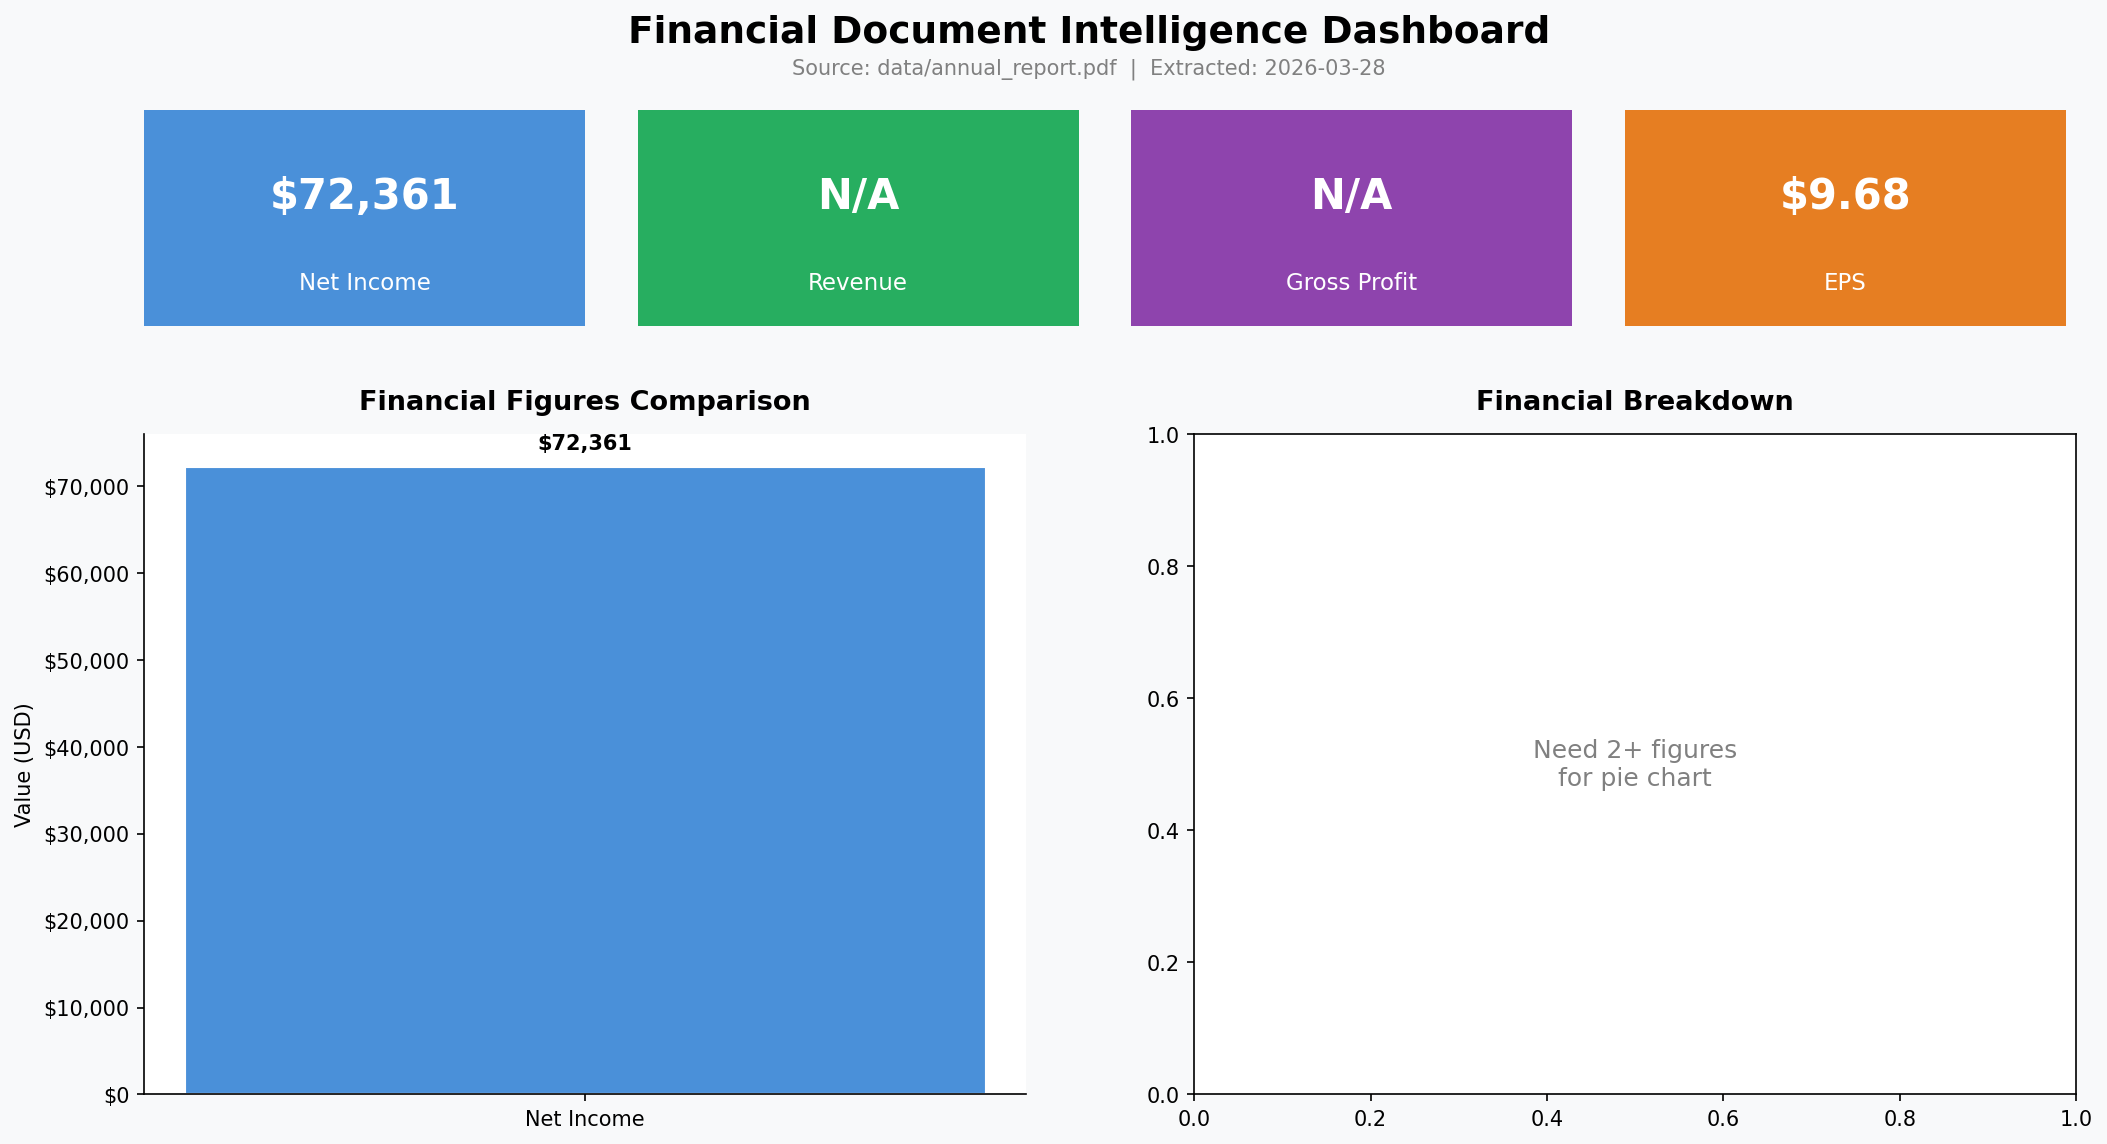
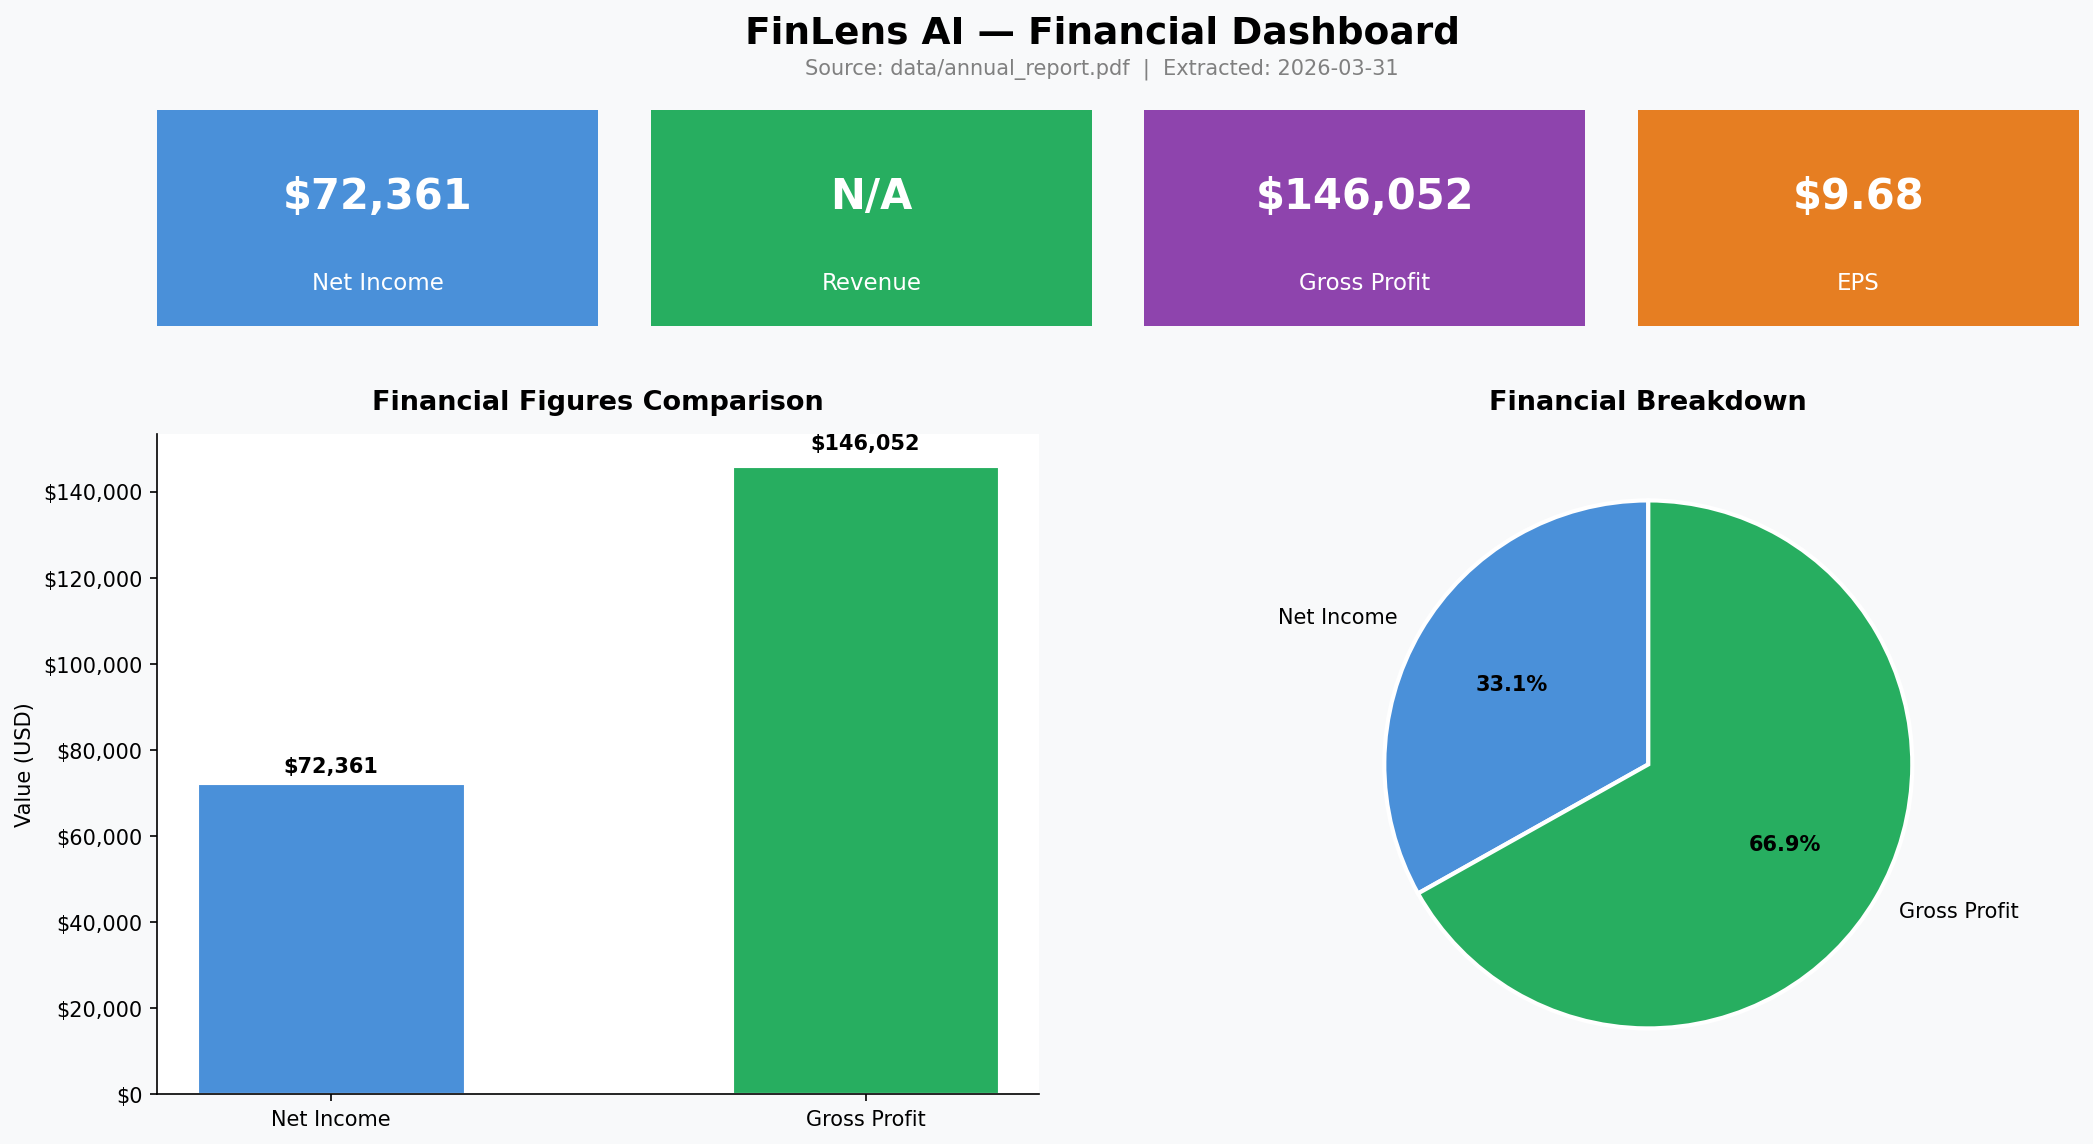
Initial commit

diff --git a/dashboard.py b/dashboard.py
@@ -1,92 +1,77 @@
 import json
 import matplotlib.pyplot as plt
-import matplotlib.patches as mpatches
 import os
 
+
 def load_data(json_path):
-    """Load the extracted financial data from JSON file"""
     with open(json_path, "r") as f:
-        data = json.load(f)
-    return data
+        return json.load(f)
+
+
+def format_value(label, value):
+    if value == 0:
+        return "N/A"
+    if label == "EPS":
+        return f"${value:.2f}"
+    if value >= 1_000_000_000:
+        return f"${value/1e9:.2f}B"
+    if value >= 1_000_000:
+        return f"${value/1e6:.1f}M"
+    return f"${value:,.0f}"
+
 
 def create_dashboard(data):
-    """Create a visual dashboard from the financial data"""
-    
     financials = data["financial_figures"]
     source = data["source_file"]
-    extracted_at = data["extracted_at"][:10]  # just the date part
-    
-    # --- Setup the figure (4 panels) ---
+    extracted_at = data["extracted_at"][:10]
+
     fig = plt.figure(figsize=(14, 8))
-    fig.suptitle("Financial Document Intelligence Dashboard", 
-                 fontsize=18, fontweight='bold', y=0.98)
+    fig.suptitle("FinLens AI — Financial Dashboard", fontsize=18, fontweight='bold', y=0.98)
     fig.patch.set_facecolor('#f8f9fa')
-    
-    # Subtitle
+
     plt.figtext(0.5, 0.93, f"Source: {source}  |  Extracted: {extracted_at}",
                 ha='center', fontsize=10, color='gray')
 
-    # ---- PANEL 1: Metric Cards (top row) ----
     metrics = [
-        ("Net Income",    financials.get("net_income",    0), "#4A90D9", "$"),
-        ("Revenue",       financials.get("revenue",       0), "#27AE60", "$"),
-        ("Gross Profit",  financials.get("gross_profit",  0), "#8E44AD", "$"),
-        ("EPS",           financials.get("eps",           0), "#E67E22", "$"),
+        ("Net Income",   financials.get("net_income",   0), "#4A90D9"),
+        ("Revenue",      financials.get("revenue",      0), "#27AE60"),
+        ("Gross Profit", financials.get("gross_profit", 0), "#8E44AD"),
+        ("EPS",          financials.get("eps",          0), "#E67E22"),
     ]
-    
-    for i, (label, value, color, prefix) in enumerate(metrics):
+
+    for i, (label, value, color) in enumerate(metrics):
         ax = fig.add_axes([0.05 + i * 0.235, 0.72, 0.21, 0.18])
         ax.set_facecolor(color)
         ax.set_xticks([])
         ax.set_yticks([])
         for spine in ax.spines.values():
             spine.set_visible(False)
-        
-        # Format value nicely
-        if value == 0:
-            display = "N/A"
-        elif label == "EPS":
-            display = f"${value:.2f}"
-        elif value >= 1_000_000_000:
-            display = f"${value/1e9:.2f}B"
-        elif value >= 1_000_000:
-            display = f"${value/1e6:.1f}M"
-        else:
-            display = f"${value:,.0f}"
-        
-        ax.text(0.5, 0.6, display, transform=ax.transAxes,
-                ha='center', va='center', fontsize=20,
-                fontweight='bold', color='white')
-        ax.text(0.5, 0.2, label, transform=ax.transAxes,
-                ha='center', va='center', fontsize=11, color='white')
+        ax.text(0.5, 0.6, format_value(label, value),
+                transform=ax.transAxes, ha='center', va='center',
+                fontsize=20, fontweight='bold', color='white')
+        ax.text(0.5, 0.2, label,
+                transform=ax.transAxes, ha='center', va='center',
+                fontsize=11, color='white')
 
-    # ---- PANEL 2: Bar Chart of all figures ----
+    bar_data = {k: v for k, v in financials.items() if v > 0 and k != "eps"}
+    colors = ['#4A90D9', '#27AE60', '#8E44AD', '#E67E22']
+
     ax2 = fig.add_axes([0.05, 0.08, 0.42, 0.55])
     ax2.set_facecolor('#ffffff')
-    
-    bar_data = {k: v for k, v in financials.items() if v > 0 and k != "eps"}
-    
+
     if bar_data:
-        labels = [k.replace("_", " ").title() for k in bar_data.keys()]
+        labels = [k.replace("_", " ").title() for k in bar_data]
         values = list(bar_data.values())
-        colors = ['#4A90D9', '#27AE60', '#8E44AD', '#E67E22'][:len(labels)]
-        
-        bars = ax2.bar(labels, values, color=colors, width=0.5, 
+
+        bars = ax2.bar(labels, values, color=colors[:len(labels)], width=0.5,
                        edgecolor='white', linewidth=1.5)
-        
-        # Add value labels on top of bars
+
         for bar, val in zip(bars, values):
-            if val >= 1e9:
-                label = f"${val/1e9:.2f}B"
-            elif val >= 1e6:
-                label = f"${val/1e6:.1f}M"
-            else:
-                label = f"${val:,.0f}"
-            ax2.text(bar.get_x() + bar.get_width()/2, bar.get_height() * 1.02,
-                    label, ha='center', va='bottom', fontsize=10, fontweight='bold')
-        
-        ax2.set_title("Financial Figures Comparison", fontsize=13, 
-                      fontweight='bold', pad=12)
+            lbl = f"${val/1e9:.2f}B" if val >= 1e9 else f"${val/1e6:.1f}M" if val >= 1e6 else f"${val:,.0f}"
+            ax2.text(bar.get_x() + bar.get_width() / 2, bar.get_height() * 1.02,
+                     lbl, ha='center', va='bottom', fontsize=10, fontweight='bold')
+
+        ax2.set_title("Financial Figures Comparison", fontsize=13, fontweight='bold', pad=12)
         ax2.set_ylabel("Value (USD)", fontsize=10)
         ax2.spines['top'].set_visible(False)
         ax2.spines['right'].set_visible(False)
@@ -94,44 +79,40 @@ def create_dashboard(data):
             plt.FuncFormatter(lambda x, _: f"${x/1e6:.0f}M" if x >= 1e6 else f"${x:,.0f}")
         )
     else:
-        ax2.text(0.5, 0.5, "No bar data available", transform=ax2.transAxes,
-                ha='center', va='center', fontsize=12, color='gray')
+        ax2.text(0.5, 0.5, "No data available", transform=ax2.transAxes,
+                 ha='center', va='center', fontsize=12, color='gray')
         ax2.set_title("Financial Figures Comparison", fontsize=13, fontweight='bold')
 
-    # ---- PANEL 3: Pie Chart ----
     ax3 = fig.add_axes([0.55, 0.08, 0.42, 0.55])
     ax3.set_facecolor('#ffffff')
-    
+
     pie_data = {k: v for k, v in financials.items() if v > 0 and k != "eps"}
-    
+
     if len(pie_data) >= 2:
-        pie_labels = [k.replace("_", " ").title() for k in pie_data.keys()]
+        pie_labels = [k.replace("_", " ").title() for k in pie_data]
         pie_values = list(pie_data.values())
-        pie_colors = ['#4A90D9', '#27AE60', '#8E44AD', '#E67E22'][:len(pie_labels)]
-        
-        wedges, texts, autotexts = ax3.pie(
-            pie_values, labels=pie_labels, colors=pie_colors,
+
+        _, _, autotexts = ax3.pie(
+            pie_values, labels=pie_labels, colors=colors[:len(pie_labels)],
             autopct='%1.1f%%', startangle=90,
             wedgeprops=dict(edgecolor='white', linewidth=2)
         )
-        for text in autotexts:
-            text.set_fontsize(10)
-            text.set_fontweight('bold')
+        for t in autotexts:
+            t.set_fontsize(10)
+            t.set_fontweight('bold')
     else:
-        ax3.text(0.5, 0.5, "Need 2+ figures\nfor pie chart", 
-                transform=ax3.transAxes, ha='center', va='center',
-                fontsize=12, color='gray')
-    
+        ax3.text(0.5, 0.5, "Need 2+ figures\nfor pie chart",
+                 transform=ax3.transAxes, ha='center', va='center',
+                 fontsize=12, color='gray')
+
     ax3.set_title("Financial Breakdown", fontsize=13, fontweight='bold', pad=12)
 
-    # ---- Save and show ----
     os.makedirs("output", exist_ok=True)
-    plt.savefig("output/dashboard.png", dpi=150, bbox_inches='tight',
-                facecolor='#f8f9fa')
+    plt.savefig("output/dashboard.png", dpi=150, bbox_inches='tight', facecolor='#f8f9fa')
     print("Dashboard saved to output/dashboard.png")
     plt.show()
 
-# ---- Run it ----
+
 if __name__ == "__main__":
     data = load_data("output/financial_data.json")
     create_dashboard(data)

diff --git a/main.py b/main.py
@@ -1,7 +1,6 @@
 import fitz
 import pdfplumber
 import camelot
-import pandas as pd
 import re
 import json
 import os
@@ -9,18 +8,18 @@ from datetime import datetime
 
 PDF_PATH = "data/annual_report.pdf"
 
-# ---- STEP 1: Load PDF ----
+
 def load_pdf(pdf_path):
     doc = fitz.open(pdf_path)
     os.makedirs("output/images", exist_ok=True)
-    total_pages = len(doc)          # save page count BEFORE closing
+    total_pages = len(doc)
     for i in range(total_pages):
-        page = doc[i]
-        pix = page.get_pixmap(matrix=fitz.Matrix(2, 2))
+        pix = doc[i].get_pixmap(matrix=fitz.Matrix(2, 2))
         pix.save(f"output/images/page_{i+1}.png")
-    doc.close()                     # close AFTER the loop
+    doc.close()
     print(f"[1] PDF loaded: {total_pages} pages")
-# ---- STEP 2: Extract text ----
+
+
 def extract_text(pdf_path):
     text_by_page = {}
     with pdfplumber.open(pdf_path) as pdf:
@@ -31,7 +30,7 @@ def extract_text(pdf_path):
     print(f"[2] Text extracted from {len(text_by_page)} pages")
     return text_by_page
 
-# ---- STEP 3: Extract tables ----
+
 def extract_tables(pdf_path):
     os.makedirs("output/tables", exist_ok=True)
     try:
@@ -45,48 +44,44 @@ def extract_tables(pdf_path):
     print(f"[3] {len(result)} tables extracted")
     return result
 
-# ---- STEP 4: Extract financials ----
+
 def extract_financial_figures(text_by_page):
     full_text = " ".join(text_by_page.values())
     financials = {}
     patterns = {
-    "revenue": r"(?:revenue[s]?|total\s+sales|net\s+sales|turnover)\s*[:\-]?\s*\$?([\d,\.]+)\s*(million|billion|M|B)?",
-    "net_income": r"(?:net\s+income|net\s+profit|profit\s+after\s+tax)\s*[:\-]?\s*\$?([\d,\.]+)\s*(million|billion|M|B)?",
-    "gross_profit": r"(?:gross\s+profit|gross\s+margin)\s*[:\-]?\s*\$?([\d,\.]+)\s*(million|billion|M|B)?",
-    "eps": r"(?:earnings\s+per\s+share|EPS|diluted\s+EPS)\s*[:\-]?\s*\$?([\d,\.]+)",
-}
+        "revenue":      r"(?:revenue[s]?|total\s+sales|net\s+sales|turnover)\s*[:\-]?\s*\$?([\d,\.]+)\s*(million|billion|M|B)?",
+        "net_income":   r"(?:net\s+income|net\s+profit|profit\s+after\s+tax)\s*[:\-]?\s*\$?([\d,\.]+)\s*(million|billion|M|B)?",
+        "gross_profit": r"(?:gross\s+profit|gross\s+margin)\s*[:\-]?\s*\$?([\d,\.]+)\s*(million|billion|M|B)?",
+        "eps":          r"(?:earnings\s+per\s+share|EPS|diluted\s+EPS)\s*[:\-]?\s*\$?([\d,\.]+)",
+    }
     for field, pattern in patterns.items():
         match = re.search(pattern, full_text, re.IGNORECASE)
-        if match:
-            value_str = match.group(1).replace(",", "").strip()
-            
-            if not value_str:          # ✅ skip if empty string
-                continue
-                
-            try:
-                val = float(value_str)
-                unit = ""
-                if match.lastindex >= 2 and match.group(2):
-                    unit = match.group(2).lower()
-                if "billion" in unit or unit == "b":
-                    val *= 1e9
-                elif "million" in unit or unit == "m":
-                    val *= 1e6
-                financials[field] = val
-                print(f"  Found {field}: {val:,.0f}")
-            except ValueError:
-                continue              # ✅ skip bad matches instead of crashing
-
+        if not match:
+            continue
+        value_str = match.group(1).replace(",", "").strip()
+        if not value_str:
+            continue
+        try:
+            val = float(value_str)
+            unit = match.group(2).lower() if match.lastindex >= 2 and match.group(2) else ""
+            if "billion" in unit or unit == "b":
+                val *= 1e9
+            elif "million" in unit or unit == "m":
+                val *= 1e6
+            financials[field] = val
+            print(f"  Found {field}: {val:,.0f}")
+        except ValueError:
+            continue
     print(f"[4] Financials found: {list(financials.keys())}")
     return financials
 
-# ---- STEP 5: Save output ----
+
 def save_results(pdf_path, financials, tables):
     result = {
-        "source_file": pdf_path,
-        "extracted_at": datetime.now().isoformat(),
+        "source_file":       pdf_path,
+        "extracted_at":      datetime.now().isoformat(),
         "financial_figures": financials,
-        "tables_found": len(tables),
+        "tables_found":      len(tables),
     }
     os.makedirs("output", exist_ok=True)
     with open("output/financial_data.json", "w") as f:
@@ -94,9 +89,9 @@ def save_results(pdf_path, financials, tables):
     print("[5] Results saved to output/financial_data.json")
     return result
 
-# ---- MAIN ----
+
 if __name__ == "__main__":
-    print("=== Financial Document Intelligence Pipeline ===\n")
+    print("=== FinLens AI — Extraction Pipeline ===\n")
     load_pdf(PDF_PATH)
     text = extract_text(PDF_PATH)
     tables = extract_tables(PDF_PATH)
